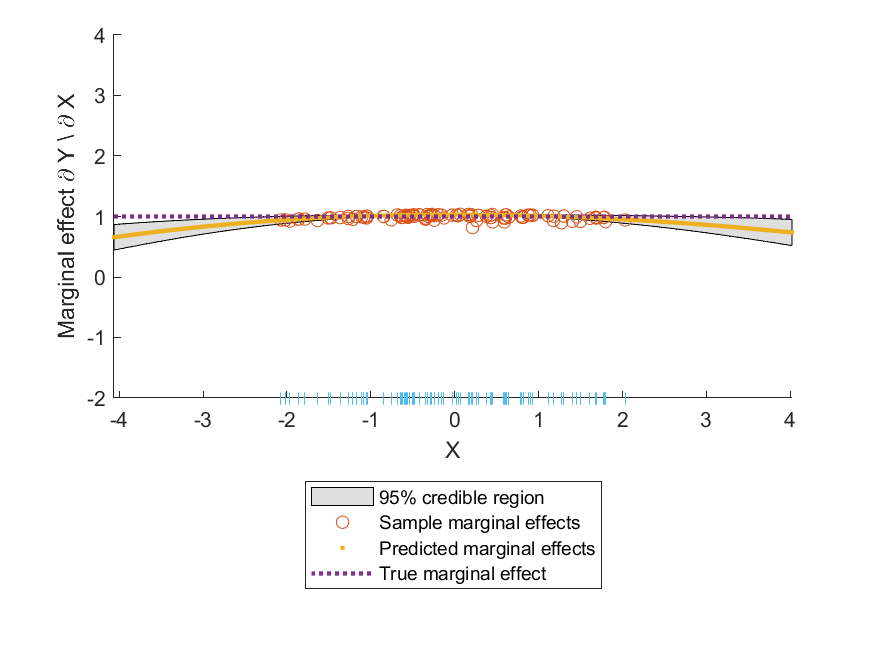
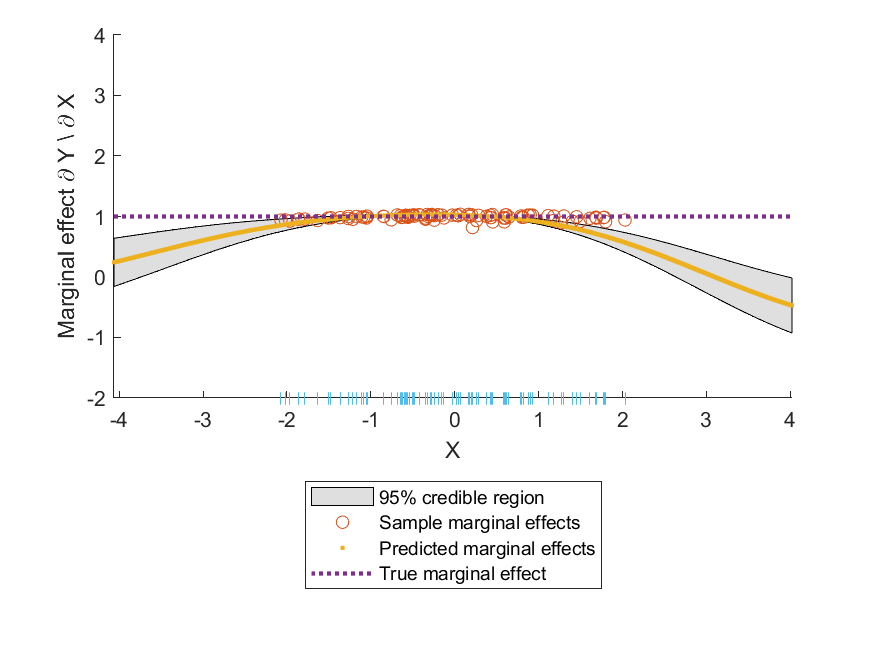
Update plotme, gridme, add allcomb
plotme and gridme now specify the plotting dimension instead of using interaction indices. I will need to create a gridding function that creates a proper grid over which to simulate. allcomb has been added to help with this. Simulation plots need to be updated to switch from interaction indices to specifying plot_Xdim

Changed region(s): [[0.5554, 0.3049, 0.9257, 0.5183], [0.1234, 0.3049, 0.432, 0.4573]]

diff --git a/allcomb.m b/allcomb.m
@@ -1,0 +1,106 @@
+function A = allcomb(varargin)
+% ALLCOMB - All combinations
+%    B = ALLCOMB(A1,A2,A3,...,AN) returns all combinations of the elements
+%    in the arrays A1, A2, ..., and AN. B is P-by-N matrix where P is the product
+%    of the number of elements of the N inputs. 
+%    This functionality is also known as the Cartesian Product. The
+%    arguments can be numerical and/or characters, or they can be cell arrays.
+%
+%    Examples:
+%       allcomb([1 3 5],[-3 8],[0 1]) % numerical input:
+%       % -> [ 1  -3   0
+%       %      1  -3   1
+%       %      1   8   0
+%       %        ...
+%       %      5  -3   1
+%       %      5   8   1 ] ; % a 12-by-3 array
+%
+%       allcomb('abc','XY') % character arrays
+%       % -> [ aX ; aY ; bX ; bY ; cX ; cY] % a 6-by-2 character array
+%
+%       allcomb('xy',[65 66]) % a combination -> character output
+%       % -> ['xA' ; 'xB' ; 'yA' ; 'yB'] % a 4-by-2 character array
+%
+%       allcomb({'hello','Bye'},{'Joe', 10:12},{99999 []}) % all cell arrays
+%       % -> {  'hello'  'Joe'        [99999]
+%       %       'hello'  'Joe'             []
+%       %       'hello'  [1x3 double] [99999]
+%       %       'hello'  [1x3 double]      []
+%       %       'Bye'    'Joe'        [99999]
+%       %       'Bye'    'Joe'             []
+%       %       'Bye'    [1x3 double] [99999]
+%       %       'Bye'    [1x3 double]      [] } ; % a 8-by-3 cell array
+%
+%    ALLCOMB(..., 'matlab') causes the first column to change fastest which
+%    is consistent with matlab indexing. Example: 
+%      allcomb(1:2,3:4,5:6,'matlab') 
+%      % -> [ 1 3 5 ; 1 4 5 ; 1 3 6 ; ... ; 2 4 6 ]
+%
+%    If one of the N arguments is empty, ALLCOMB returns a 0-by-N empty array.
+%    
+%    See also NCHOOSEK, PERMS, NDGRID
+%         and NCHOOSE, COMBN, KTHCOMBN (Matlab Central FEX)
+% Tested in Matlab R2015a and up
+% version 4.2 (apr 2018)
+% (c) Jos van der Geest
+% email: samelinoa@gmail.com
+% History
+% 1.1 (feb 2006), removed minor bug when entering empty cell arrays;
+%     added option to let the first input run fastest (suggestion by JD)
+% 1.2 (jan 2010), using ii as an index on the left-hand for the multiple
+%     output by NDGRID. Thanks to Jan Simon, for showing this little trick
+% 2.0 (dec 2010). Bruno Luong convinced me that an empty input should
+% return an empty output.
+% 2.1 (feb 2011). A cell as input argument caused the check on the last
+%      argument (specifying the order) to crash.
+% 2.2 (jan 2012). removed a superfluous line of code (ischar(..))
+% 3.0 (may 2012) removed check for doubles so character arrays are accepted
+% 4.0 (feb 2014) added support for cell arrays
+% 4.1 (feb 2016) fixed error for cell array input with last argument being
+%     'matlab'. Thanks to Richard for pointing this out.
+% 4.2 (apr 2018) fixed some grammar mistakes in the help and comments
+narginchk(1,Inf) ;
+NC = nargin ;
+% check if we should flip the order
+if ischar(varargin{end}) && (strcmpi(varargin{end}, 'matlab') || strcmpi(varargin{end}, 'john'))
+    % based on a suggestion by JD on the FEX
+    NC = NC-1 ;
+    ii = 1:NC ; % now first argument will change fastest
+else
+    % default: enter arguments backwards, so last one (AN) is changing fastest
+    ii = NC:-1:1 ;
+end
+args = varargin(1:NC) ;
+if any(cellfun('isempty', args)) % check for empty inputs
+    warning('ALLCOMB:EmptyInput','One of more empty inputs result in an empty output.') ;
+    A = zeros(0, NC) ;
+elseif NC == 0 % no inputs
+    A = zeros(0,0) ; 
+elseif NC == 1 % a single input, nothing to combine
+    A = args{1}(:) ; 
+else
+    isCellInput = cellfun(@iscell, args) ;
+    if any(isCellInput)
+        if ~all(isCellInput)
+            error('ALLCOMB:InvalidCellInput', ...
+                'For cell input, all arguments should be cell arrays.') ;
+        end
+        % for cell input, we use to indices to get all combinations
+        ix = cellfun(@(c) 1:numel(c), args, 'un', 0) ;
+        
+        % flip using ii if last column is changing fastest
+        [ix{ii}] = ndgrid(ix{ii}) ;
+        
+        A = cell(numel(ix{1}), NC) ; % pre-allocate the output
+        for k = 1:NC
+            % combine
+            A(:,k) = reshape(args{k}(ix{k}), [], 1) ;
+        end
+    else
+        % non-cell input, assuming all numerical values or strings
+        % flip using ii if last column is changing fastest
+        [A{ii}] = ndgrid(args{ii}) ;
+        % concatenate
+        A = reshape(cat(NC+1,A{:}), [], NC) ;
+    end
+end

diff --git a/gridme.m b/gridme.m
@@ -1,4 +1,4 @@
-function [ plt, gridX ] = gridme(d, numsteps, hyp, meanfunc, covfunc, X, y, interaction_indices)
+function [ plt, gridX ] = gridme(d, numsteps, hyp, meanfunc, covfunc, X, y, plot_Xdim)
 % This function automates some of the prediction for generating marginal
 % effects plots with plotme(). Grids are automatically generated for
 % plotme() argument Xs given the covariate of interest d.
@@ -11,36 +11,25 @@ function [ plt, gridX ] = gridme(d, numsteps, hyp, meanfunc, covfunc, X, y, inte
 
     [~,D] = size(X);
     gridX = zeros(numsteps, D);
-    for k = 1:D
-        gridX(:,k) = mean(X(:,k))*ones(numsteps,1); % Hold all covariates at their respective mean
+    for idx = 1:D    % Grid everything
+        range = max(X(:,idx)) - min(X(:,idx)) + 4*sqrt(var(X(:,idx)));
+        gXd = ((min(X(:,idx)) - 2*sqrt(var(X(:,idx)))):range/(numsteps-1):(max(X(:,idx)) + 2*sqrt(var(X(:,idx)))))';
+        gridX(:,idx) = gXd; % Overwrite d^th covariate with the grid
     end
 
-    switch nargin 
-
-        case 7 % When interaction_indices aren't specified, then only grid dimension d
-
-            % Make the grid for dimension d
-            range = max(X(:,d)) - min(X(:,d)) + 4*sqrt(var(X(:,d)));
-            gXd = ((min(X(:,d)) - 2*sqrt(var(X(:,d)))):range/(numsteps-1):(max(X(:,d)) + 2*sqrt(var(X(:,d)))))';
-            gridX(:,d) = gXd; % Overwrite d^th covariate with the grid
-
-            plt = plotme(d, hyp, meanfunc, covfunc, X, y, gridX); % Make the plot
-        
-        otherwise % The case when plotting interaction effects
-
-            for k = 1:D
-                gridX(:,k) = mean(X(:,k))*ones(numsteps,1); % Hold all covariates at their respective mean
-            end
     
-            % Make the grid over any index specified in interaction_indices
-            for idx = interaction_indices
-                range = max(X(:,idx)) - min(X(:,idx)) + 4*sqrt(var(X(:,idx)));
-                gXd = ((min(X(:,idx)) - 2*sqrt(var(X(:,idx)))):range/(numsteps-1):(max(X(:,idx)) + 2*sqrt(var(X(:,idx)))))';
-                gridX(:,idx) = gXd; % Overwrite d^th covariate with the grid
-            end
 
-            plt = plotme(d, hyp, meanfunc, covfunc, X, y, gridX, interaction_indices); % Make the plot
+    % This gridding is insufficient. For any observations of dimension d, I
+    % need a grid across another dimension d'. For any observation of d and
+    % a particular observation on the grid d', I need another grid across
+    % dimension d''. 
 
+    switch nargin 
+        case 7 % If plot_Xdim isn't specified, plot X dim is dimension d
+            plt = plotme(d, hyp, meanfunc, covfunc, X, y, gridX);
+        case 8 % Grid everything
+            plt = plotme(d, hyp, meanfunc, covfunc, X, y, gridX, plot_Xdim);
+        %case 9 % Only grid certain dimensions
     end
 
 end

diff --git a/plotme.m b/plotme.m
@@ -1,4 +1,4 @@
-function plt = plotme(d, hyp, meanfunc, covfunc, X, y, Xs, interaction_indices)
+function plt = plotme(d, hyp, meanfunc, covfunc, X, y, Xs, plot_Xdim)
 % This function generates marginal effect plots.
 %       nargin 6 - If Xs is omitted, then it is assumed that sample marginal effects
 %       are the desired plot.
@@ -45,26 +45,15 @@ function plt = plotme(d, hyp, meanfunc, covfunc, X, y, Xs, interaction_indices)
                 'Sample marginal effects', ...
                 'Predicted marginal effects')
 
-        case 8 % This case plots predictions and omits some plot elements to make interaction plots easier to customize
-            % Sample marginal effects and labels should be updated outside
-            % of the plotme() function call when plotting interactions
+        case 8 % In case the plot X axis is not the same as dimension d
             [g1, g2] = pme(hyp, meanfunc, covfunc, X, y, Xs);       % Prediction 
-
-            % For now, assume that interactions will only be between 2 dimensions.
-            % i.e., interaction_indices is only ever a vector [d od]
-            od = interaction_indices(interaction_indices~=d);
-
-            % For interactions, the marginal effect is a function of the
-            % OTHER DIMENSION (od)
-            % Change documentation so that interaction_indices should only
-            % be two dimensions.
-            plotSort = sortrows([Xs(:,od), g1(d,:)', g2(d,:)'], 1); % X axis is other dimension, y axis is dth marginal effect
+            plotSort = sortrows([Xs(:,plot_Xdim), g1(d,:)', g2(d,:)'], 1);
             g = [plotSort(:,2)-1.96*sqrt(plotSort(:,3)); flip(plotSort(:,2)+1.96*sqrt(plotSort(:,3)))];
             hold on;
             plt = fill([plotSort(:,1); flip(plotSort(:,1))], g, [7 7 7]/8);
-            plot(Xs(:,od), g1(d,:)', '.')
+            plot(Xs(:,plot_Xdim), g1(d,:)', '.')
             hold off;
-            xlim([min(Xs(:,od)), max(Xs(:,od))])
+            xlim([min(Xs(:,plot_Xdim)), max(Xs(:,plot_Xdim))])
             legend('95% credible region', ...
                 'Predicted marginal effects')
 

diff --git a/simulations/bivariate_linear_interaction.m b/simulations/bivariate_linear_interaction.m
@@ -45,7 +45,7 @@ hyp_iso = minimize_v2(hyp, @gp, p, inffunc, meanfunc, covfunc, likfunc, train_X,
 
 d=1;
 numsteps=500;
-[ bivariate_linear_interaction_x1_iso, gridX ] = gridme(d, numsteps, hyp_iso, meanfunc, covfunc, X, y, [1 2]);
+[ bivariate_linear_interaction_x1_iso, gridX ] = gridme(d, numsteps, hyp_iso, meanfunc, covfunc, X, y, 2);
 hold on;
 [dydx, ~] = pme(hyp_iso, meanfunc, covfunc, X, y);            % sample
 plot(X(:,2), dydx(1,:), 'o', 'DisplayName', "Sample marginal effects")
@@ -65,7 +65,7 @@ close;
 
 d=2;
 numsteps=500;
-[ bivariate_linear_interaction_x2_iso, gridX ] = gridme(d, numsteps, hyp_iso, meanfunc, covfunc, X, y, [1 2]);
+[ bivariate_linear_interaction_x2_iso, gridX ] = gridme(d, numsteps, hyp_iso, meanfunc, covfunc, X, y, 1);
 hold on;
 [dydx, ~] = pme(hyp_iso, meanfunc, covfunc, X, y);            % sample
 plot(X(:,1), dydx(2,:), 'o', 'DisplayName', "Sample marginal effects")
@@ -105,7 +105,7 @@ hyp_ard = minimize_v2(hyp, @gp, p, inffunc, meanfunc, covfunc, likfunc, train_X,
 
 d=1;
 numsteps=500;
-[ bivariate_linear_interaction_x1_ard, gridX ] = gridme(d, numsteps, hyp_ard, meanfunc, covfunc, X, y, [1 2]);
+[ bivariate_linear_interaction_x1_ard, gridX ] = gridme(d, numsteps, hyp_ard, meanfunc, covfunc, X, y, 2);
 hold on;
 [dydx, ~] = pme(hyp_ard, meanfunc, covfunc, X, y);            % sample
 plot(X(:,2), dydx(1,:), 'o', 'DisplayName', "Sample marginal effects")
@@ -125,7 +125,7 @@ close;
 
 d=2;
 numsteps=500;
-[ bivariate_linear_interaction_ard_x2, gridX ] = gridme(d, numsteps, hyp_ard, meanfunc, covfunc, X, y, [1 2]);
+[ bivariate_linear_interaction_ard_x2, gridX ] = gridme(d, numsteps, hyp_ard, meanfunc, covfunc, X, y, 1);
 hold on;
 [dydx, ~] = pme(hyp_ard, meanfunc, covfunc, X, y);            % sample
 plot(X(:,1), dydx(2,:), 'o', 'DisplayName', "Sample marginal effects")
